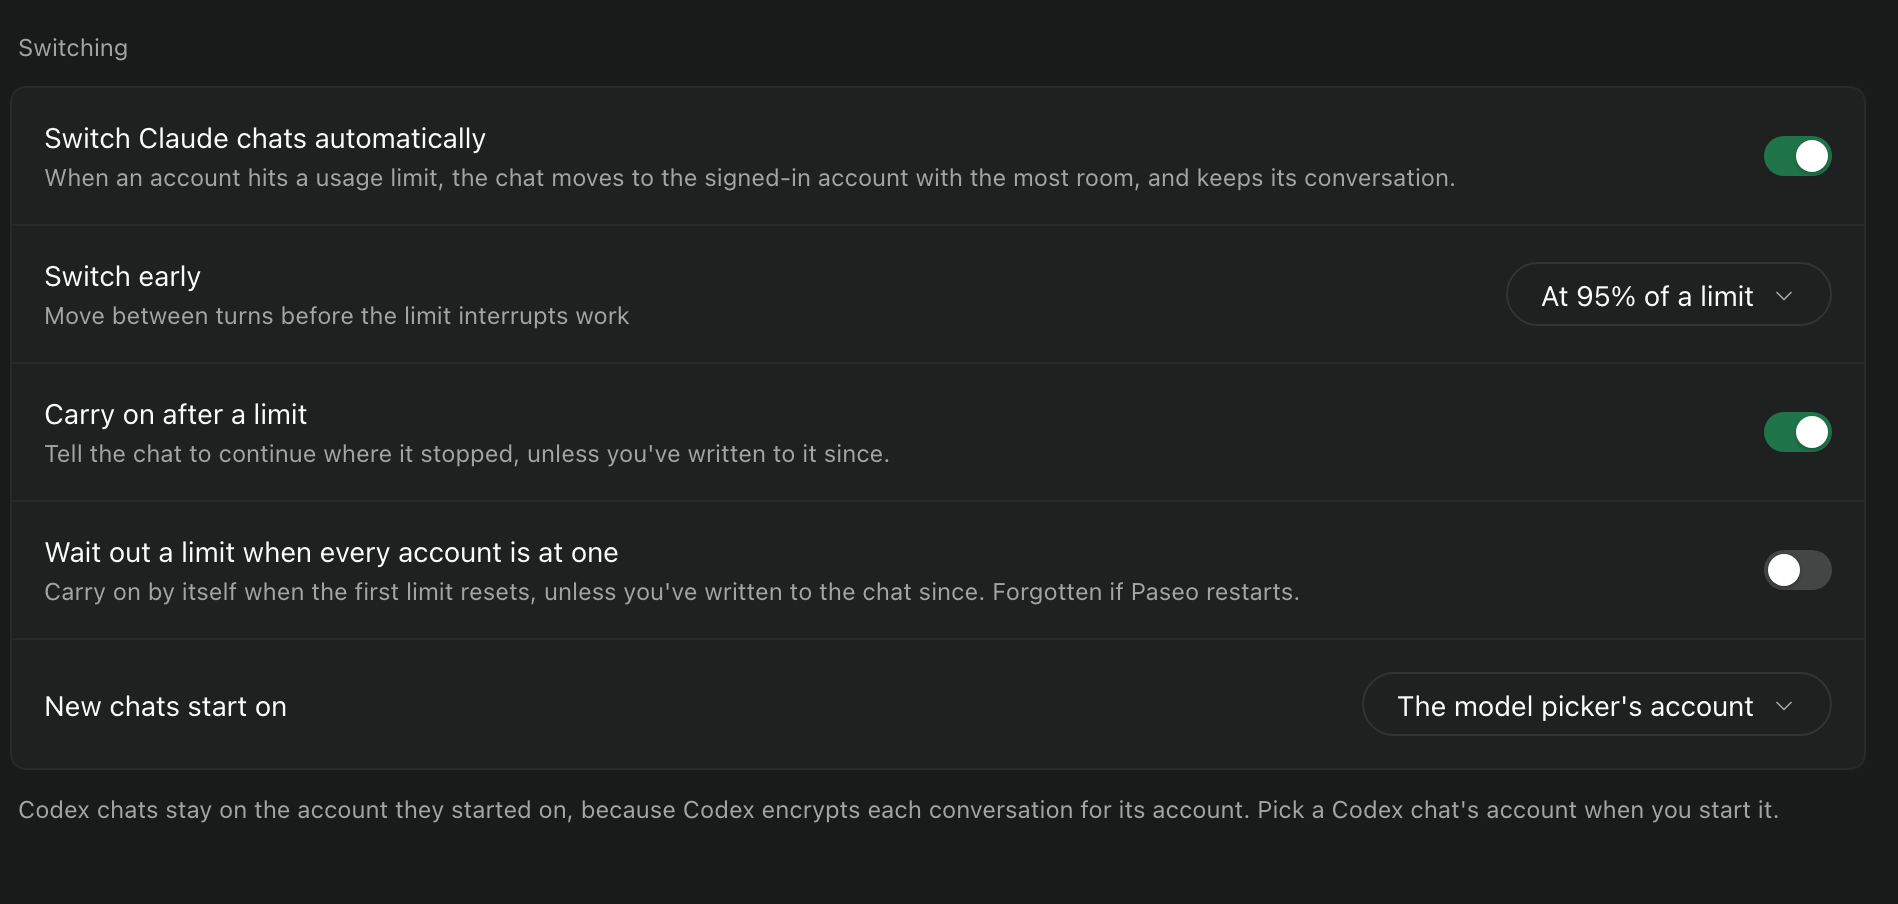
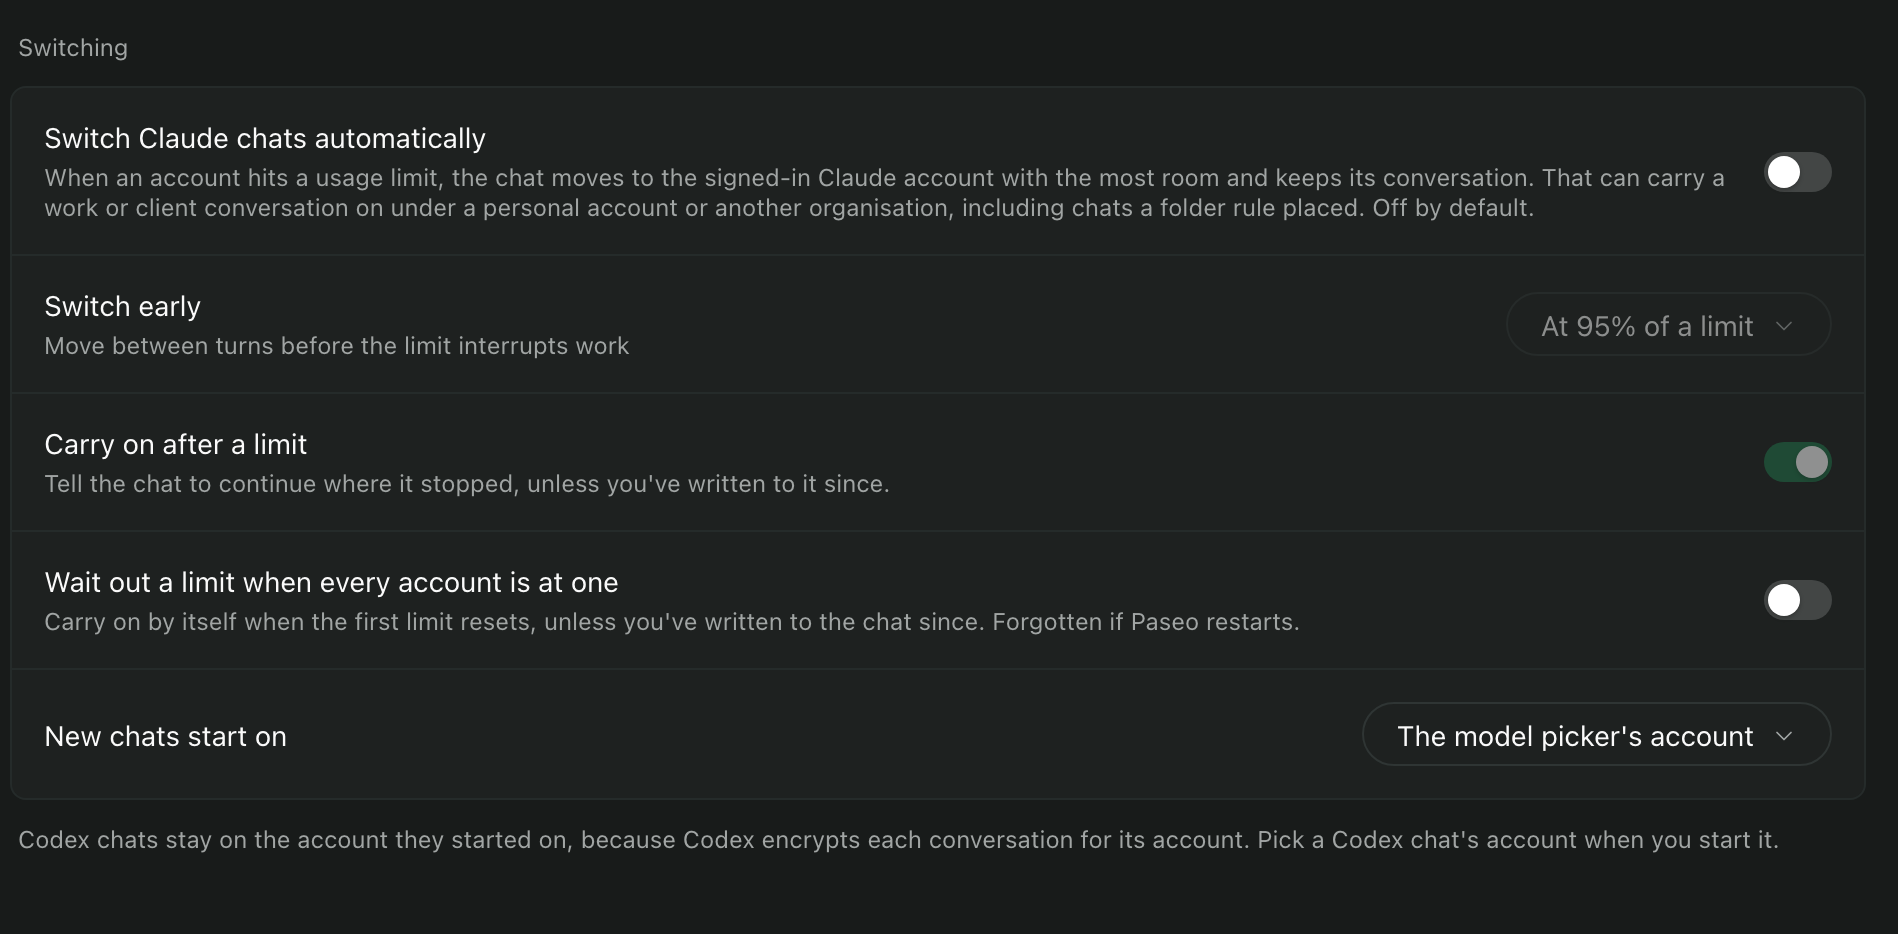
1.0.2: automatic switching is opt-in (#5)
Requested by the paseo.sh registry review (getpaseo/plugins#3011).
Automatic switching could carry a work or client conversation on under
a personal account or another organisation, including chats a folder
rule placed, so it is now off by default. The setting, OVERVIEW.md,
README and listing description explain what turning it on means.

Settings move to version 2. The migration turns automatic switching off
once, because saving any setting under 1.0.1 stored it as on.

diff --git a/tests/runtime.test.ts b/tests/runtime.test.ts
@@ -126,7 +126,8 @@ async function createHarness(options: HarnessOptions = {}) {
     timeline: { async append(item: unknown) { calls.timeline.push(item); } },
   };
   const paseo = { agents: { ref(id: string) { assert.equal(id, agent.id); return handle; } } } as any;
-  let settings: SwitchingOptions = { ...DEFAULT_SETTINGS, ...options.settings };
+  // Most tests exercise switching, so the harness turns it on; the real default is off (see the test below).
+  let settings: SwitchingOptions = { ...DEFAULT_SETTINGS, autoSwitch: true, ...options.settings };
   const logs: string[] = [];
   const runtimeDeps: RuntimeDeps = {
     host() {
@@ -259,6 +260,15 @@ test("onTurnEnd fails over after a Claude limit and records, reloads, and resume
   assert.equal(h.calls.timeline.at(-1)?.data.reason, "limit");
   assert.equal(h.calls.send.at(-1), CONTINUE_PROMPT);
 }));
+test("automatic switching is off by default, so a limit leaves the chat on its account", async () => withHarness(async (h) => {
+  assert.equal(DEFAULT_SETTINGS.autoSwitch, false);
+  await h.runtime.onTurnEnd(turnPayload(h, failure("You've hit your limit · resets 3pm (UTC)")), h.paseo);
+  assert.equal(h.agent.metadata[META_ACCOUNT], undefined);
+  assert.equal(h.calls.reload, 0);
+  assert.equal(h.calls.send.length, 0);
+  assert.equal(h.calls.timeline.at(-1)?.data.reason, "stuck");
+  assert.match(h.calls.timeline.at(-1)?.data.detail ?? "", /Automatic switching is off/);
+}, { settings: { autoSwitch: DEFAULT_SETTINGS.autoSwitch } }));
 test("onTurnEnd does not resume after the user starts another turn during failover", async () => withHarness(async (h) => {
   let release!: () => void;
   const gate = new Promise<void>((resolve) => { release = resolve; });
@@ -337,6 +347,15 @@ test("a successful turn above the threshold moves for headroom without sending",
   assert.equal(h.calls.timeline.at(-1)?.data.reason, "headroom");
   assert.equal(h.calls.send.length, 0);
 }));
+test("with the default settings a turn above the early-switch threshold does not move", async () => withHarness(async (h) => {
+  h.agent.metadata[META_ACCOUNT] = "claude";
+  h.used.claude = 99; h.used["claude-work"] = 20; h.used["claude-team"] = 10;
+  await h.runtime.headroom.get(h.rows.find((row) => row.id === "claude-work")!);
+  await h.runtime.headroom.get(h.rows.find((row) => row.id === "claude-team")!);
+  await h.runtime.onTurnEnd(turnPayload(h, completed), h.paseo);
+  assert.equal(h.agent.metadata[META_ACCOUNT], "claude");
+  assert.equal(h.calls.reload, 0);
+}, { settings: { autoSwitch: DEFAULT_SETTINGS.autoSwitch } }));
 test("a successful turn below the threshold does not move", async () => withHarness(async (h) => {
   h.agent.metadata[META_ACCOUNT] = "claude";
   h.used.claude = 40;

diff --git a/shared/switching.ts b/shared/switching.ts
@@ -28,12 +28,17 @@ export type Rule = z.infer<typeof ruleSchema>;
 export const switchingSettings = defineSettings({
   id: "switching",
   scope: "host",
-  version: 1,
+  // Version 2 made automatic switching opt-in. Saving any setting under version 1 stored it as on,
+  // so the migration turns it off once; people who want it turn it back on.
+  version: 2,
   schema: z.object({
     /** Folder rules for new chats, e.g. ~/work/** → Claude (Work). */
     rules: z.array(ruleSchema).max(200).default([]),
-    /** Move a chat to another account when its account hits a usage limit. */
-    autoSwitch: z.boolean().default(true),
+    /**
+     * Move a chat to another account when its account hits a usage limit. Off by default: it can carry a
+     * conversation on under another account or organisation, including a chat a folder rule placed.
+     */
+    autoSwitch: z.boolean().default(false),
     /** Also move a chat, between turns, once its account passes this share of a limit. 100 turns it off. */
     switchBeforePercent: z.number().int().min(50).max(100).default(95),
     /** After an automatic move caused by a limit, tell the chat to carry on. */
@@ -45,7 +50,13 @@ export const switchingSettings = defineSettings({
     /** New chats with no rule and no explicit choice: keep the picker's provider, or pick the account with most headroom. */
     newChats: z.enum(["picker", "most-headroom"]).default("picker"),
   }),
+  migrate: (values, fromVersion) => migrateSwitching(values, fromVersion),
 });
+
+export function migrateSwitching(values: unknown, fromVersion: number): unknown {
+  if (fromVersion >= 2 || !values || typeof values !== "object") return values;
+  return { ...(values as Record<string, unknown>), autoSwitch: false };
+}
 export type SwitchingOptions = z.infer<typeof switchingSettings.schema>;
 export const DEFAULT_SETTINGS: SwitchingOptions = switchingSettings.schema.parse({});
 

diff --git a/client/switching.tsx b/client/switching.tsx
@@ -48,7 +48,7 @@ export function SwitchingSettings({ theme, accounts, platform }: { theme: Theme;
         <SettingsCard>
           <SettingsSwitch
             label="Switch Claude chats automatically"
-            hint="When an account hits a usage limit, the chat moves to the signed-in account with the most room, and keeps its conversation."
+            hint="When an account hits a usage limit, the chat moves to the signed-in Claude account with the most room and keeps its conversation. That can carry a work or client conversation on under a personal account or another organisation, including chats a folder rule placed. Off by default."
             value={values.autoSwitch}
             disabled={settings.saving}
             onValueChange={(autoSwitch) => void save({ autoSwitch })}
@@ -70,7 +70,7 @@ export function SwitchingSettings({ theme, accounts, platform }: { theme: Theme;
           />
           <SettingsSwitch
             label="Wait out a limit when every account is at one"
-            hint="Carry on by itself when the first limit resets, unless you've written to the chat since. Forgotten if Paseo restarts."
+            hint="Carry on by itself when the first limit resets, unless you've written to the chat since. Forgotten if Paseo restarts. Claude chats also need automatic switching on."
             value={values.waitForReset}
             disabled={settings.saving}
             onValueChange={(waitForReset) => void save({ waitForReset })}

diff --git a/tests/switching.test.ts b/tests/switching.test.ts
@@ -16,7 +16,7 @@ import {
   type Headroom,
 } from "../server/switching";
 import { HeadroomCache, lookupEnv, summarize, type HeadroomDeps } from "../server/headroom";
-import { DEFAULT_SETTINGS, META_ACCOUNT, type SwitchingOptions } from "../shared/switching";
+import { DEFAULT_SETTINGS, META_ACCOUNT, migrateSwitching, switchingSettings, type SwitchingOptions } from "../shared/switching";
 import type { AccountKind } from "../shared/accounts";
 
 const home = "/Users/x";
@@ -377,4 +377,14 @@ test("HeadroomCache exposes cached readings through snapshot", async () => {
   const cache = new HeadroomCache(cacheDeps());
   await cache.get(byId("claude"));
   assert.deepEqual(cache.snapshot().get("claude"), { usedPct: 42, summary: "5h 42%" });
+});
+
+test("settings from before version 2 have automatic switching turned off once", () => {
+  assert.equal(switchingSettings.version, 2);
+  const old = { rules: [{ pattern: "~/work/**", accountId: "claude-work" }], autoSwitch: true, switchBeforePercent: 90 };
+  assert.deepEqual(migrateSwitching(old, 1), { ...old, autoSwitch: false });
+  const parsed = switchingSettings.schema.parse(migrateSwitching(old, 1));
+  assert.equal(parsed.autoSwitch, false);
+  assert.equal(parsed.rules.length, 1);
+  assert.deepEqual(migrateSwitching({ autoSwitch: true }, 2), { autoSwitch: true });
 });

diff --git a/README.md b/README.md
@@ -1,7 +1,7 @@
 # Claude & Codex Accounts
 
-**Move a Claude chat to another account mid-conversation, and keep working when one hits its
-limit.** Run all your Claude and Codex accounts side by side in Paseo — work, personal, a
+**Move a Claude chat to another account mid-conversation, and, if you turn it on, keep working
+when one hits its limit.** Run all your Claude and Codex accounts side by side in Paseo — work, personal, a
 client's — and hand a chat from one to the next without losing a word.
 
 Works on macOS, Linux and Windows.
@@ -13,11 +13,13 @@ Works on macOS, Linux and Windows.
 - **A chat keeps everything when it changes account.** The plugin swaps only the login a chat uses.
   The conversation, your settings, MCP servers, skills and hooks stay exactly as they were, so
   nothing is copied, linked or merged between folders.
-- **Failover that doesn't depend on wording.** A chat moves when its account hits a limit,
+- **Opt-in failover that doesn't depend on wording.** With automatic switching on, a chat moves
+  when its account hits a limit,
   spotted either from the CLI's message *or* from the account's real usage reading, so a
   reworded message doesn't quietly turn failover off. It can also move early, at 80–95%.
-- **It can carry on by itself.** After a move it tells the chat to continue, but only if you
-  haven't written to it since. When every account is at its limit, it can wait for the first reset.
+- **It can carry on by itself.** With automatic switching on, after a move it tells the chat to
+  continue, but only if you haven't written to it since. When every account is at its limit, it can
+  wait for the first reset.
 - **Every account's usage, before you start.** Each extra account gets its own card on Paseo's
   Usage page, and the message box shows how much room each one has.
 - **Sign in from anywhere**, phone included: Claude's page gives you a code to paste back, and
@@ -42,10 +44,10 @@ most, and all of them are here:
 | Asked for | Here |
 | --- | --- |
 | Switch account without losing the conversation | Any Claude chat, from the message box (mid-turn, it moves when the turn ends) |
-| Keep working when an account hits its limit | Claude chats move and carry on by themselves; Codex chats say which account to use |
+| Keep working when an account hits its limit | With automatic switching on, Claude chats move and carry on by themselves; Codex chats say which account to use |
 | Don't rely on the error wording | A limit is spotted from the message *or* the real usage reading |
 | Move before the limit, not after | Optional early switch at 80, 90 or 95% |
-| What to do when every account is out | Optional wait for the first reset, then carry on |
+| What to do when every account is out | Optional wait for the first reset, then carry on (Claude chats need automatic switching on) |
 | Usage for every account, not just the default | A Usage-page card per account, and room shown in the account menu |
 | Tell accounts apart | Email and plan wherever the provider reports them, and the organisation for Claude |
 | Pick the account per chat, or let it choose | An account, "Most headroom", or folder rules |
@@ -59,7 +61,7 @@ What it can't do yet is under [Limits](#limits): most importantly, Codex chats c
 account, because Codex encrypts each conversation for the account that started it.
 
 <p>
-  <img src="docs/screenshots/switching.png" alt="Switching settings: automatic switching, switching early at 95%, carrying on after a limit, waiting out a limit, and how new chats pick an account" width="49%">
+  <img src="docs/screenshots/switching.png" alt="Switching settings: automatic switching (off by default, with a note on what turning it on means), switching early at 95%, carrying on after a limit, waiting out a limit, and how new chats pick an account" width="49%">
   <img src="docs/screenshots/accounts.png" alt="The accounts screen: four Claude accounts with their email, organisation and plan, one of them hidden and not signed in" width="49%">
 </p>
 
@@ -71,7 +73,7 @@ account, because Codex encrypts each conversation for the account that started i
 With Paseo 0.16.1 or later:
 
 ```sh
-paseo plugin install npm:@kevlai22/paseo-claude-codex-accounts@1.0.1
+paseo plugin install npm:@kevlai22/paseo-claude-codex-accounts@1.0.2
 ```
 
 Open it from **Settings → Plugins → Claude & Codex Accounts**, from a workspace's **+** menu (**Accounts**), or by
@@ -87,8 +89,11 @@ choose an account, **Most headroom**, or leave it **as configured** (folder rule
 picker's account). In a running Claude chat, choosing another account moves the chat there; if a
 turn is running, it moves when the turn ends.
 
-**Let it switch for you.** With **Switch Claude chats automatically** on (the default), a chat
-that hits a usage limit moves to the signed-in account with the most room and carries on. Each
+**Let it switch for you.** Turn on **Switch Claude chats automatically** (it's off by default) and a
+chat that hits a usage limit moves to the signed-in account with the most room and carries on. That
+can carry a work or client conversation on under a personal account or another organisation, including
+chats a folder rule placed on a particular account, so turn it on only if that's fine for your accounts. Updating from 1.0.1 turns it
+off once, because 1.0.1 saved it as on even if you never chose it; turn it back on if you want it. Each
 move adds a note to the chat saying where it went and why. To stop two busy accounts trading a
 chat back and forth, a chat moves automatically at most four times in ten minutes, and early
 moves only go to an account with real room.

diff --git a/OVERVIEW.md b/OVERVIEW.md
@@ -1,4 +1,4 @@
-Claude & Codex Accounts lets you use several Claude and Codex accounts in Paseo, such as work, personal and a client's. You pick the account for each chat from the message box. A running Claude chat can move to another account and keep its conversation, and a chat that hits a usage limit can move to an account that still has room.
+Claude & Codex Accounts lets you use several Claude and Codex accounts in Paseo, such as work, personal and a client's. You pick the account for each chat from the message box. A running Claude chat can move to another account and keep its conversation, and, if you turn on automatic switching, a chat that hits a usage limit can move to an account that still has room.
 
 Moving a chat swaps only its login. The conversation, settings, MCP servers, skills and hooks stay the same. Claude Code reads its login from `CLAUDE_SECURESTORAGE_CONFIG_DIR`, so the plugin points that at the chosen account and reopens the chat from the same transcript. Codex encrypts each conversation for the account that started it, so a Codex chat can't change account. New Codex chats pick an account when they start.
 
@@ -10,10 +10,10 @@ Add accounts from the plugin's Accounts screen (Settings, then Plugins, a worksp
 
 - **Per chat:** in a new chat, choose an account, "Most headroom" (the signed-in account furthest from its limits), or leave it as configured. In a running Claude chat, choosing another account moves it. If a turn is running, the move happens when the turn ends.
 - **Folder rules:** map folders to accounts with `*` and `**` wildcards. The most specific rule wins.
-- **Automatic switching** (on by default): a Claude chat that hits a limit moves to the signed-in account with the most room. A limit is spotted from the CLI's message or from the account's usage reading. Each move adds a note to the chat. A chat moves automatically at most four times in ten minutes.
-- **Early switching** (on by default): between turns, a chat moves once its account passes 95% of a limit, to an account at least 10 points lower. You can set 80 or 90%, or turn it off.
-- **Carrying on** (on by default): after a move caused by a limit, it tells the chat to continue, unless you have written to it since.
-- **Waiting out a limit** (optional): when every account is at its limit, it waits for the first reset.
+- **Automatic switching** (off by default): when you turn it on, a Claude chat that hits a limit moves to the signed-in Claude account with the most room and keeps its conversation. This can carry a work or client conversation on under a personal account or another organisation, including chats a folder rule placed on a particular account. A limit is spotted from the CLI's message or from the account's usage reading. Each move adds a note to the chat. A chat moves automatically at most four times in ten minutes. With it off, a chat that hits a limit gets a note to choose another account.
+- **Early switching** (with automatic switching on): between turns, a chat moves once its account passes 95% of a limit, to an account at least 10 points lower. You can set 80 or 90%, or only switch at the limit.
+- **Carrying on** (with automatic switching on): after a move caused by a limit, it tells the chat to continue, unless you have written to it since.
+- **Waiting out a limit** (optional; Claude chats also need automatic switching on): when every account is at its limit, it waits for the first reset.
 - **Codex:** when a Codex account hits its limit, the plugin says which account to start a new chat on.
 - **Scripts and agents:** `paseo run --label account=claude-work` starts a Claude chat on that account. An optional setting gives agents `accounts_list` and `accounts_switch` tools.
 
